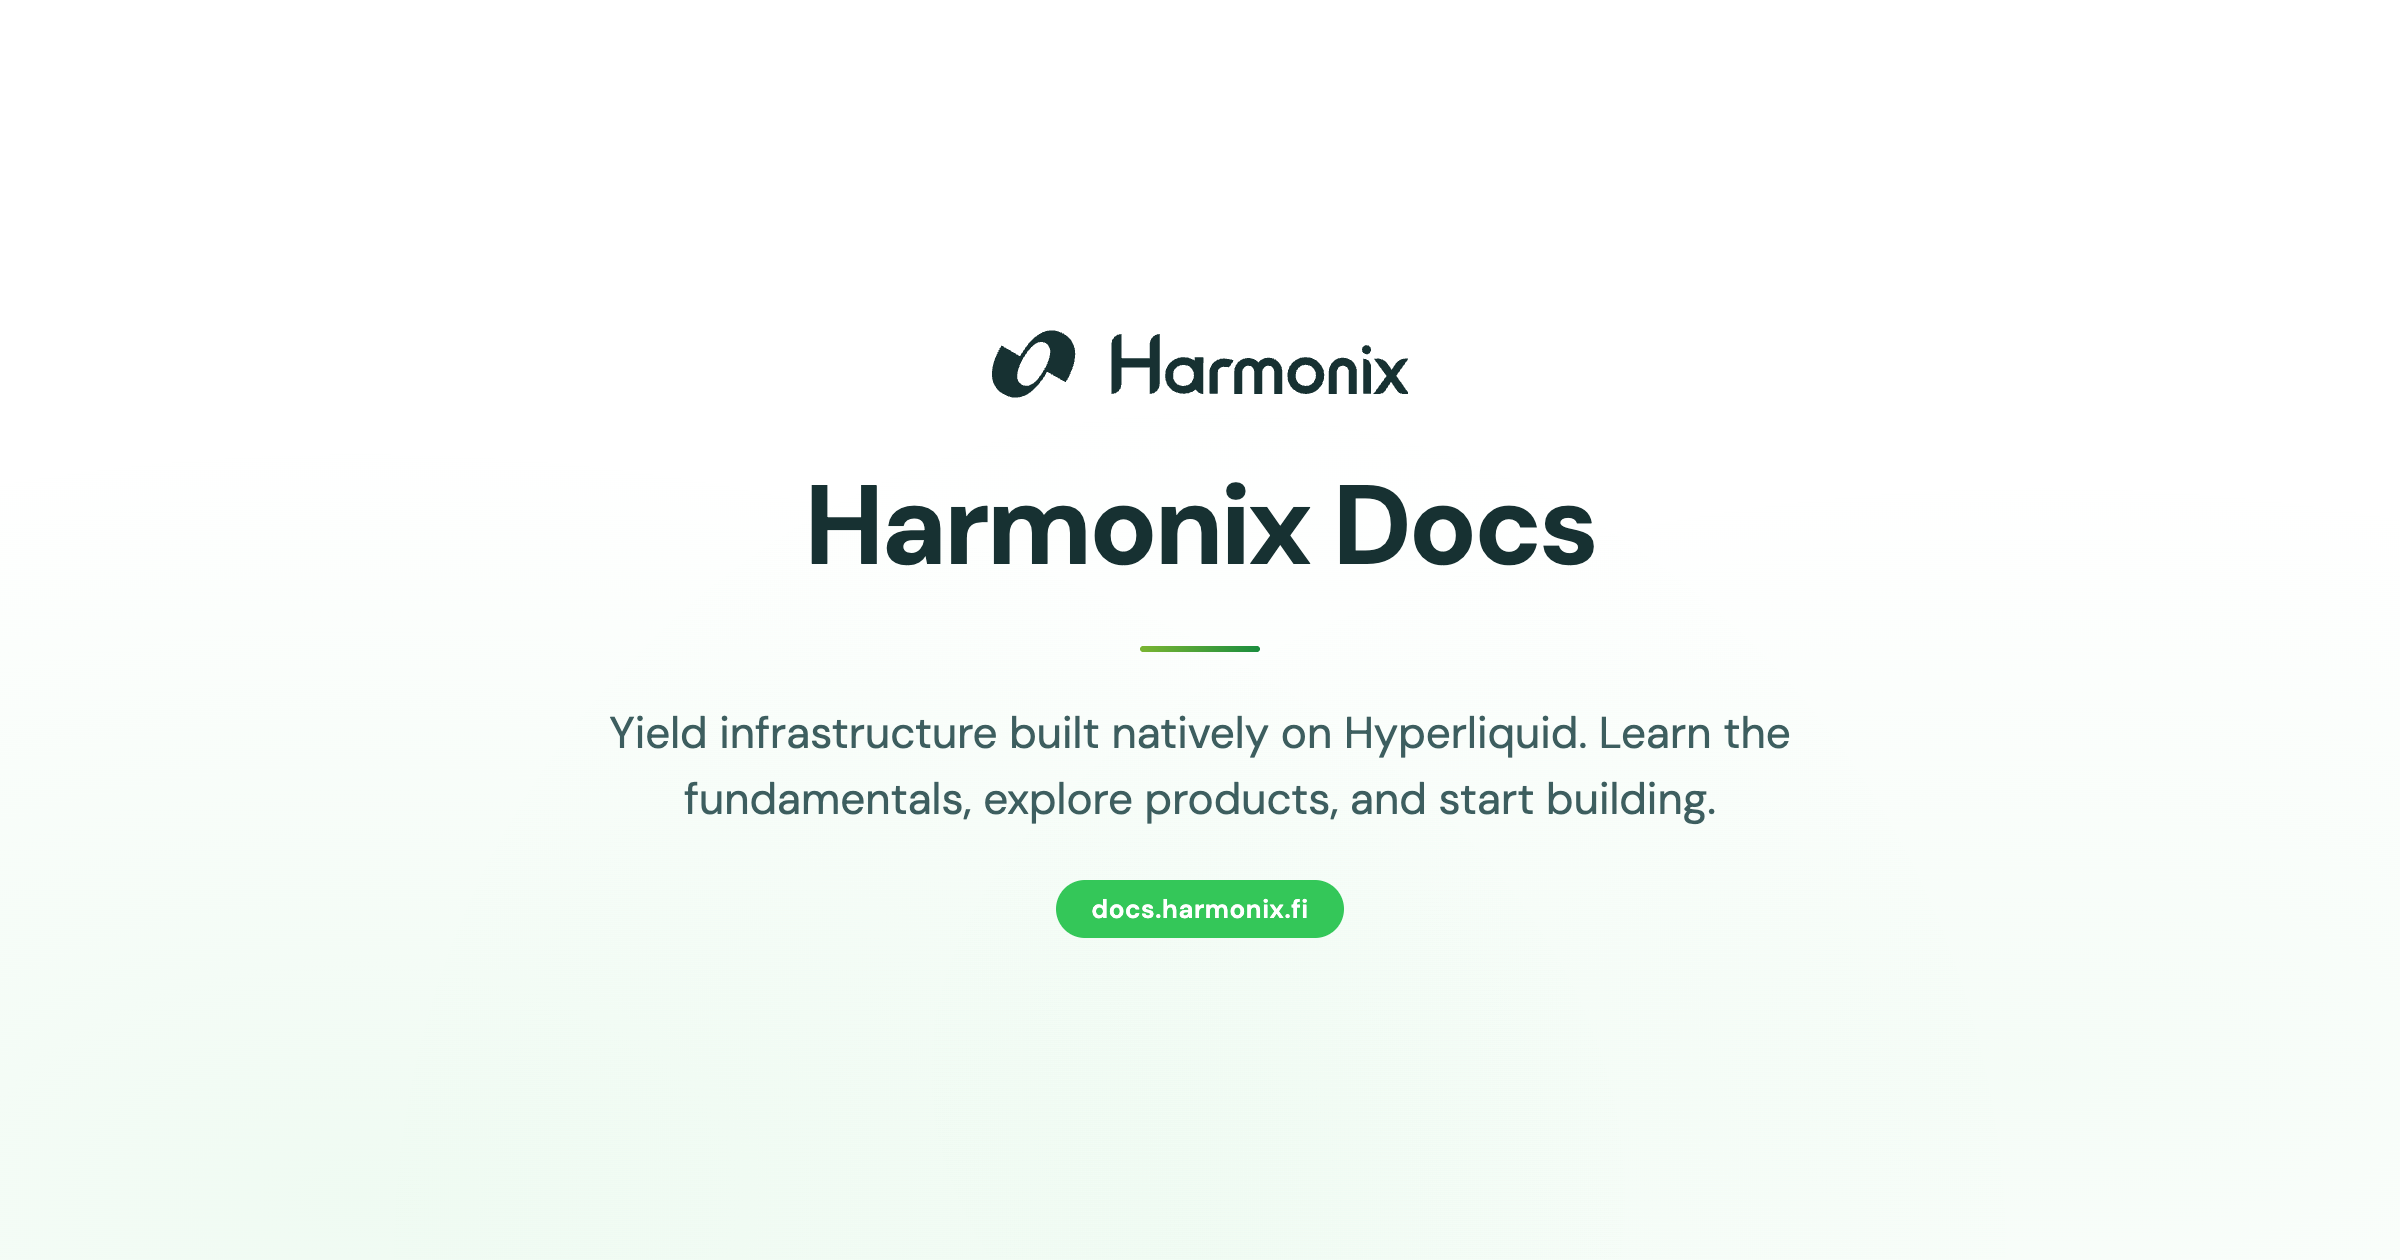
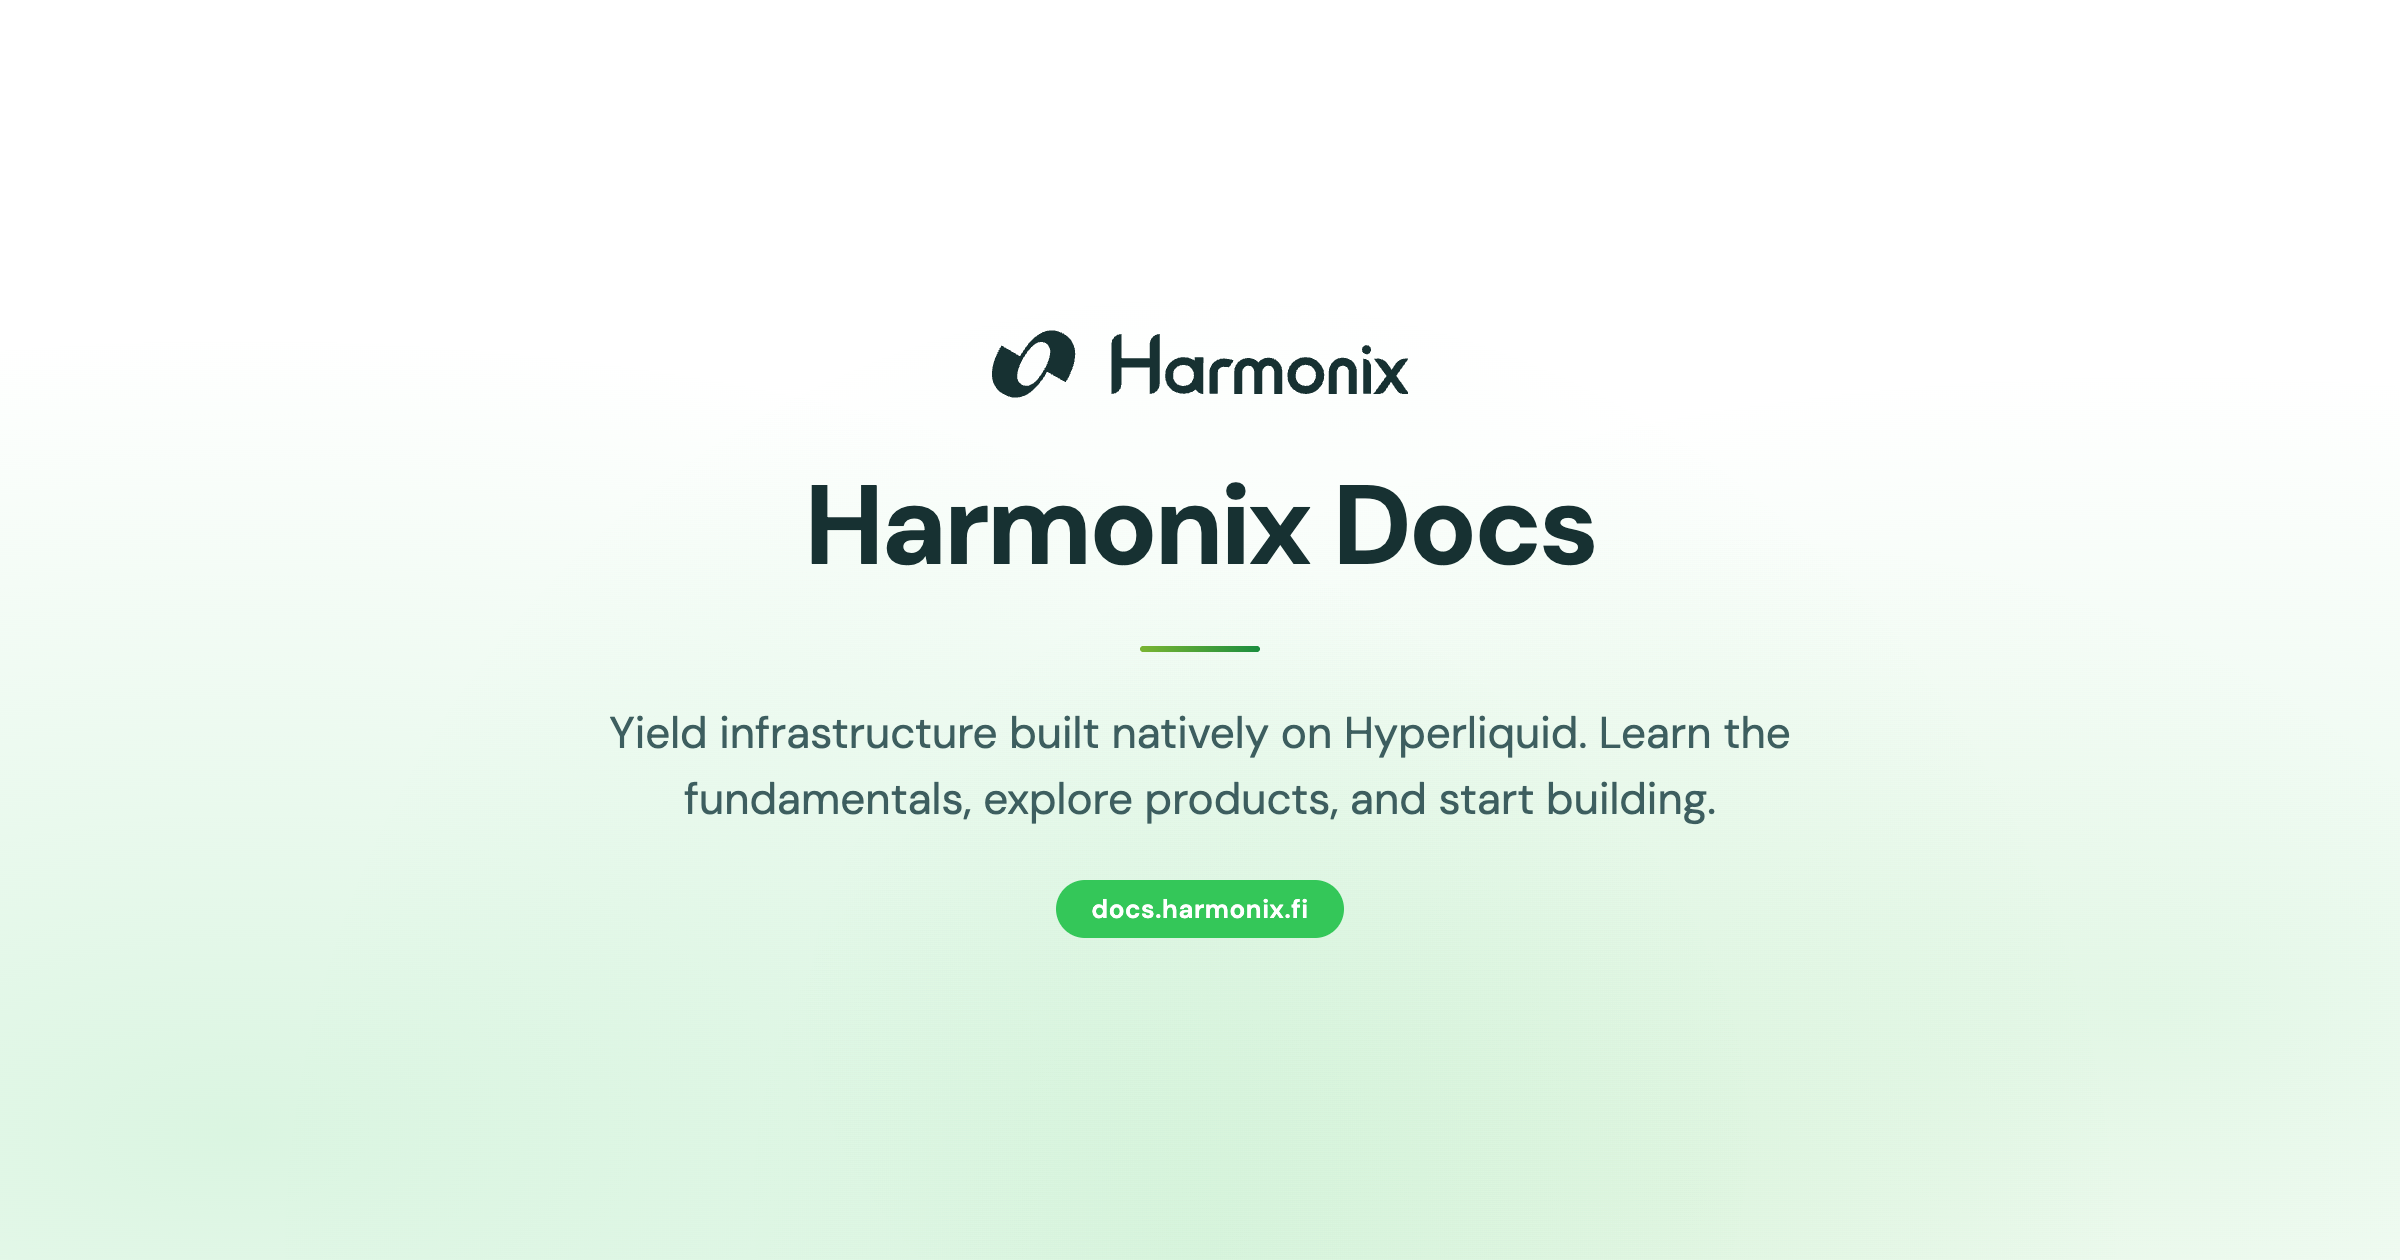
Stronger green flair on OG image

Changed region(s): [[0.4062, 0.7429, 0.7188, 1.0]]

diff --git a/og-generator.html b/og-generator.html
@@ -1,0 +1,69 @@
+<!DOCTYPE html>
+<html>
+<head>
+<meta charset="UTF-8">
+<style>
+@import url('https://fonts.googleapis.com/css2?family=DM+Sans:wght@400;500;600;700&display=swap');
+* { margin: 0; padding: 0; box-sizing: border-box; }
+body {
+  width: 1200px; height: 630px;
+  background: #FFFFFF;
+  background-image:
+    radial-gradient(ellipse at 10% 90%, rgba(52,199,89,0.18) 0%, transparent 50%),
+    radial-gradient(ellipse at 90% 80%, rgba(52,199,89,0.12) 0%, transparent 45%),
+    radial-gradient(ellipse at 50% 100%, rgba(52,199,89,0.10) 0%, transparent 55%),
+    radial-gradient(ellipse at 70% 95%, rgba(120,200,80,0.08) 0%, transparent 40%);
+  font-family: 'DM Sans', sans-serif;
+  display: flex;
+  flex-direction: column;
+  align-items: center;
+  justify-content: center;
+  gap: 24px;
+}
+.logo {
+  display: flex;
+  align-items: center;
+  gap: 14px;
+}
+.logo svg { height: 42px; width: auto; }
+.title {
+  font-size: 56px;
+  font-weight: 700;
+  color: #173132;
+  letter-spacing: -1.5px;
+}
+.subtitle {
+  font-size: 22px;
+  color: #3D5E5F;
+  font-weight: 400;
+  max-width: 600px;
+  text-align: center;
+  line-height: 1.5;
+}
+.divider {
+  width: 60px;
+  height: 3px;
+  background: linear-gradient(90deg, #7AB532, #1A8D3E);
+  border-radius: 2px;
+}
+.badge {
+  font-size: 13px;
+  font-weight: 600;
+  color: #fff;
+  background: #34C759;
+  padding: 6px 18px;
+  border-radius: 20px;
+  letter-spacing: 0.3px;
+}
+</style>
+</head>
+<body>
+  <svg viewBox="0 0 146 28" xmlns="http://www.w3.org/2000/svg" style="height:40px;width:auto;fill:#173132;">
+    <g><g><path d="M25,3.4c-5.9-3.4-11.3,1-15.2,7.9L3.3,7.5c-4,6.9-5.1,13.7,0.8,17.1s11.3-1,15.2-7.9l6.5,3.7C29.8,13.6,30.9,6.8,25,3.4z M18.2,16.1c-2.3,4-5.1,6.7-7.8,5.1c-2.7-1.5-1.7-5.3,0.6-9.3s5.1-6.7,7.8-5.2C21.4,8.3,20.5,12.1,18.2,16.1z"/></g><path d="M73.9,24.5c-1.1,0-2.1-0.7-2.6-1.6c-0.3,0.3-0.6,0.5-1,0.7c-1,0.6-2.1,0.8-3.3,0.8c-1.2,0-2.3-0.3-3.3-0.8c-1-0.6-1.8-1.4-2.3-2.3c-0.6-1-0.8-2.1-0.8-3.3c0-1.2,0.3-2.3,0.8-3.2c0.6-1,1.4-1.7,2.3-2.3c1-0.6,2.1-0.9,3.3-0.9s2.3,0.3,3.3,0.8c0.2,0.1,0.5,0.3,0.7,0.5v-1.3h3L73.9,24.5L73.9,24.5z M58.7,21c0,1.9-1.5,3.5-3.5,3.5v-9.3h-9.9V21c0,1.9-1.5,3.5-3.5,3.5V7c0-1.9,1.5-3.5,3.5-3.5V12h9.9V7c0-1.9,1.5-3.5,3.5-3.5C58.7,3.5,58.7,21,58.7,21z M109.8,11.6c1.2,0,2.3,0.3,3.3,0.9c1,0.6,1.7,1.3,2.3,2.3c0.6,1,0.9,2,0.9,3.2s-0.3,2.3-0.9,3.3s-1.3,1.8-2.3,2.3c-1,0.6-2.1,0.9-3.3,0.9c-1.2,0-2.3-0.3-3.3-0.9s-1.8-1.4-2.3-2.3c-0.6-1-0.8-2.1-0.8-3.3c0-1.2,0.3-2.3,0.8-3.2c0.6-1,1.4-1.7,2.3-2.3C107.5,11.9,108.6,11.6,109.8,11.6z M135,12.1c1.4,0,2.6,0.7,3.4,1.8l1.5,2.1l1.4-2.1c0.8-1.1,2.1-1.8,3.4-1.8h1.1l-4.3,6l4.5,6.4h-2.2c-0.8,0-1.5-0.4-1.9-1l-2.2-3.2l-2.2,3.2c-0.4,0.6-1.2,1-1.9,1h-2.1l4.6-6.3l-4.4-6L135,12.1L135,12.1z M96.7,11.8c2.7,0,4.8,2.1,4.9,4.8l0,0v7.9h-2.8v-7.9l0,0c0-1.1-0.9-2-2.1-2c-1.1,0-2,0.9-2.1,2l0,0v7.9h-2.8v-7.9l0,0c0-1.1-0.9-2-2.1-2c-1.1,0-2,0.9-2.1,2l0,0v7.9h-2.8v-8l0,0c0.1-2.6,2.3-4.6,4.9-4.6c1.4,0,2.6,0.6,3.5,1.5C94.1,12.4,95.3,11.8,96.7,11.8z M122.8,11.8c2.7,0,4.8,2.1,4.9,4.8l0,0v7.9h-2.8v-7.9l0,0c0-1.1-0.9-2-2.1-2c-1.1,0-2,0.9-2.1,2l0,0v7.9h-2.8v-8l0,0C118,13.9,120.2,11.8,122.8,11.8z M129.9,12.1c1.6,0,2.8,1.3,2.8,2.8v9.5h-2.8V12.1z M81,12.1c1.1,0,2,0.2,2.6,0.3c0.3,0.1,0.5,0.2,0.7,0.3c0.1,0,0.2,0.1,0.2,0.1h0.1l0,0l0,0l0,0l0,0l0,0c0,0,0,0-0.8,1.2S83,15.2,83,15.2l0,0l0,0l0,0l0,0l0,0l0,0c0,0-0.2-0.1-0.3-0.1c-0.2,0-0.8-0.1-1.7-0.1c-1.1,0-2,0.9-2,2v7.4h-2.9V17C76.1,14.3,78.3,12.1,81,12.1z M67,14.3c-0.7,0-1.3,0.2-1.9,0.5c-0.5,0.3-1,0.7-1.3,1.3c-0.3,0.5-0.4,1.2-0.4,1.9c0,0.7,0.1,1.4,0.4,1.9c0.3,0.6,0.7,1,1.3,1.3c0.5,0.3,1.2,0.5,1.9,0.5c0.7,0,1.3-0.2,1.9-0.5c0.5-0.3,1-0.8,1.3-1.3c0.3-0.6,0.5-1.2,0.5-1.9c0-0.7-0.2-1.4-0.5-1.9s-0.7-1-1.3-1.3C68.3,14.5,67.7,14.3,67,14.3z M109.8,14.3c-0.7,0-1.3,0.2-1.8,0.5s-0.9,0.7-1.3,1.3c-0.3,0.5-0.4,1.2-0.4,1.9c0,0.7,0.1,1.4,0.4,1.9c0.3,0.6,0.7,1,1.3,1.3c0.5,0.3,1.2,0.5,1.8,0.5c0.7,0,1.3-0.2,1.8-0.5s1-0.8,1.3-1.3c0.3-0.6,0.5-1.2,0.5-1.9c0-0.7-0.2-1.4-0.5-1.9s-0.7-1-1.3-1.3C111.1,14.5,110.5,14.3,109.8,14.3z M131.1,7.4c0.9,0,1.6,0.7,1.6,1.6s-0.7,1.6-1.6,1.6c-0.9,0-1.6-0.7-1.6-1.6C129.5,8.1,130.2,7.4,131.1,7.4z"/></g>
+  </svg>
+  <div class="title">Harmonix Docs</div>
+  <div class="divider"></div>
+  <div class="subtitle">Yield infrastructure built natively on Hyperliquid. Learn the fundamentals, explore products, and start building.</div>
+  <div class="badge">docs.harmonix.fi</div>
+</body>
+</html>
